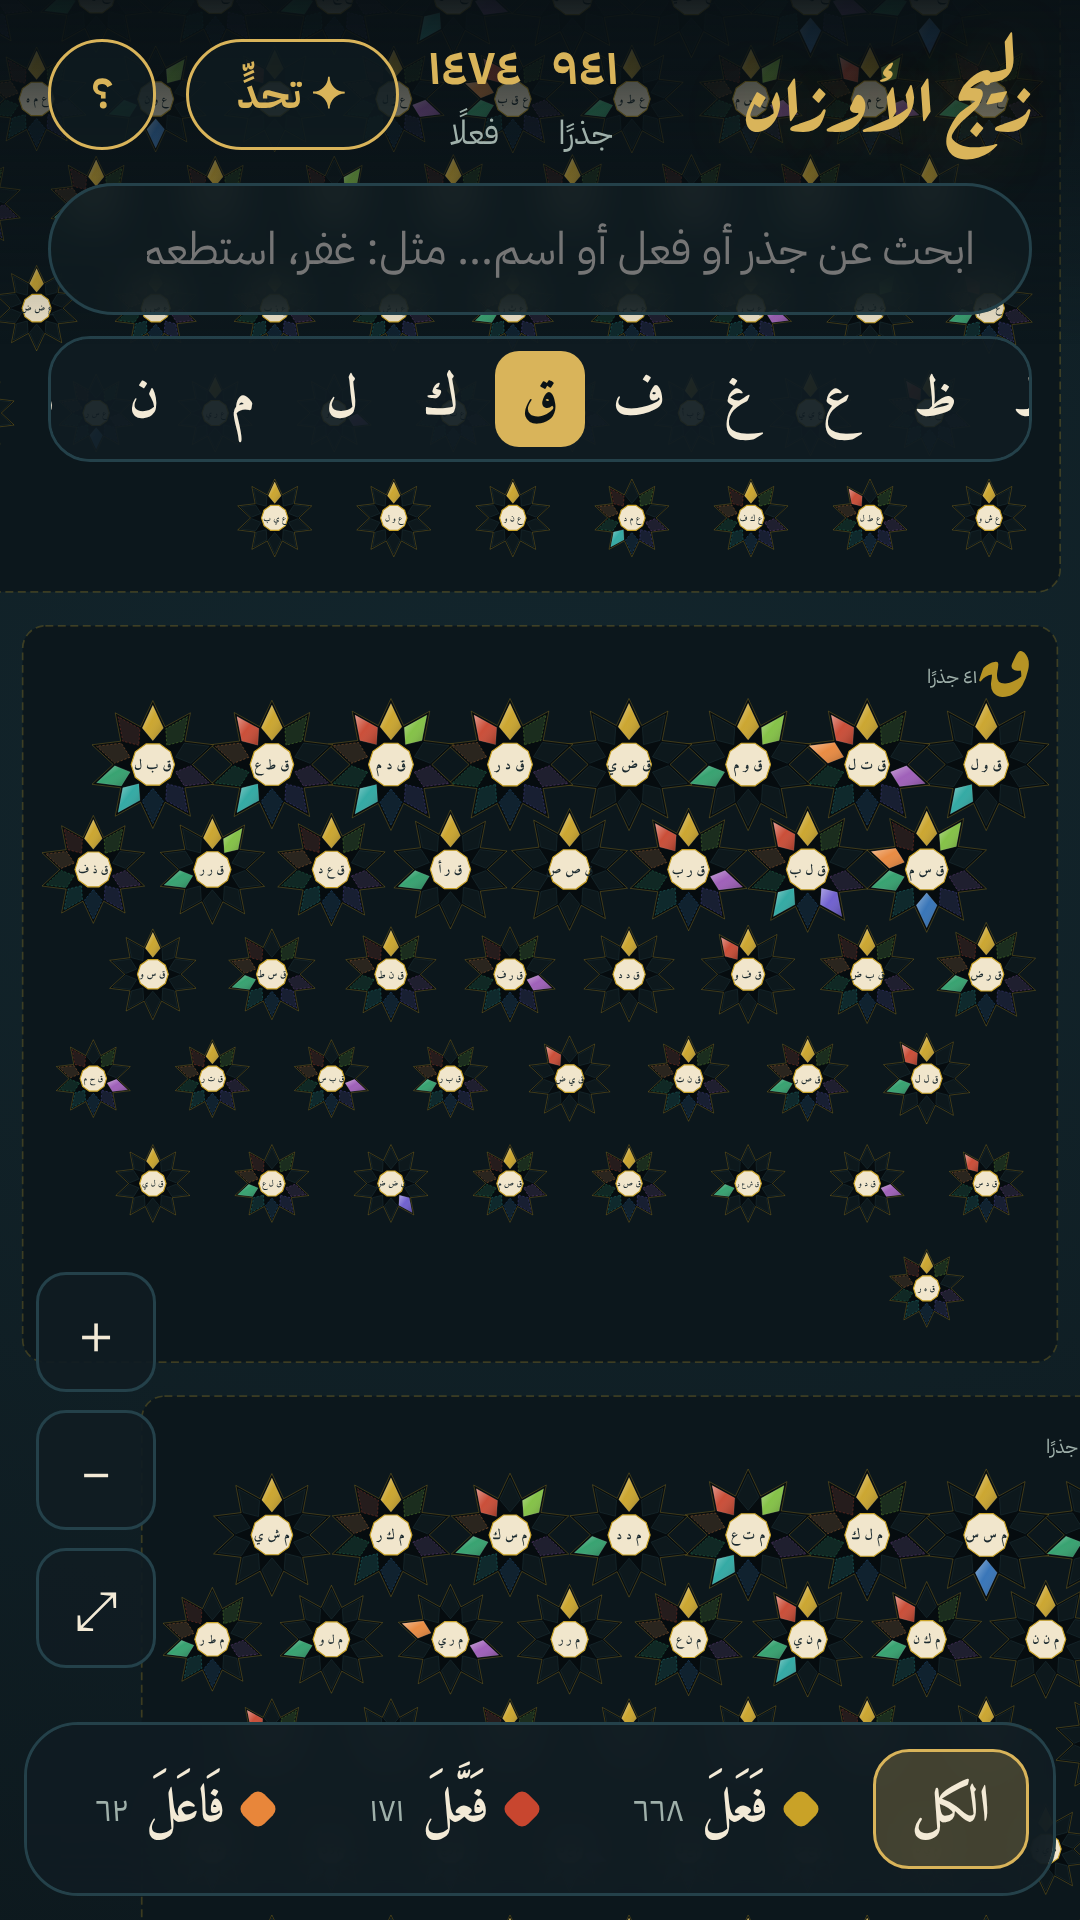
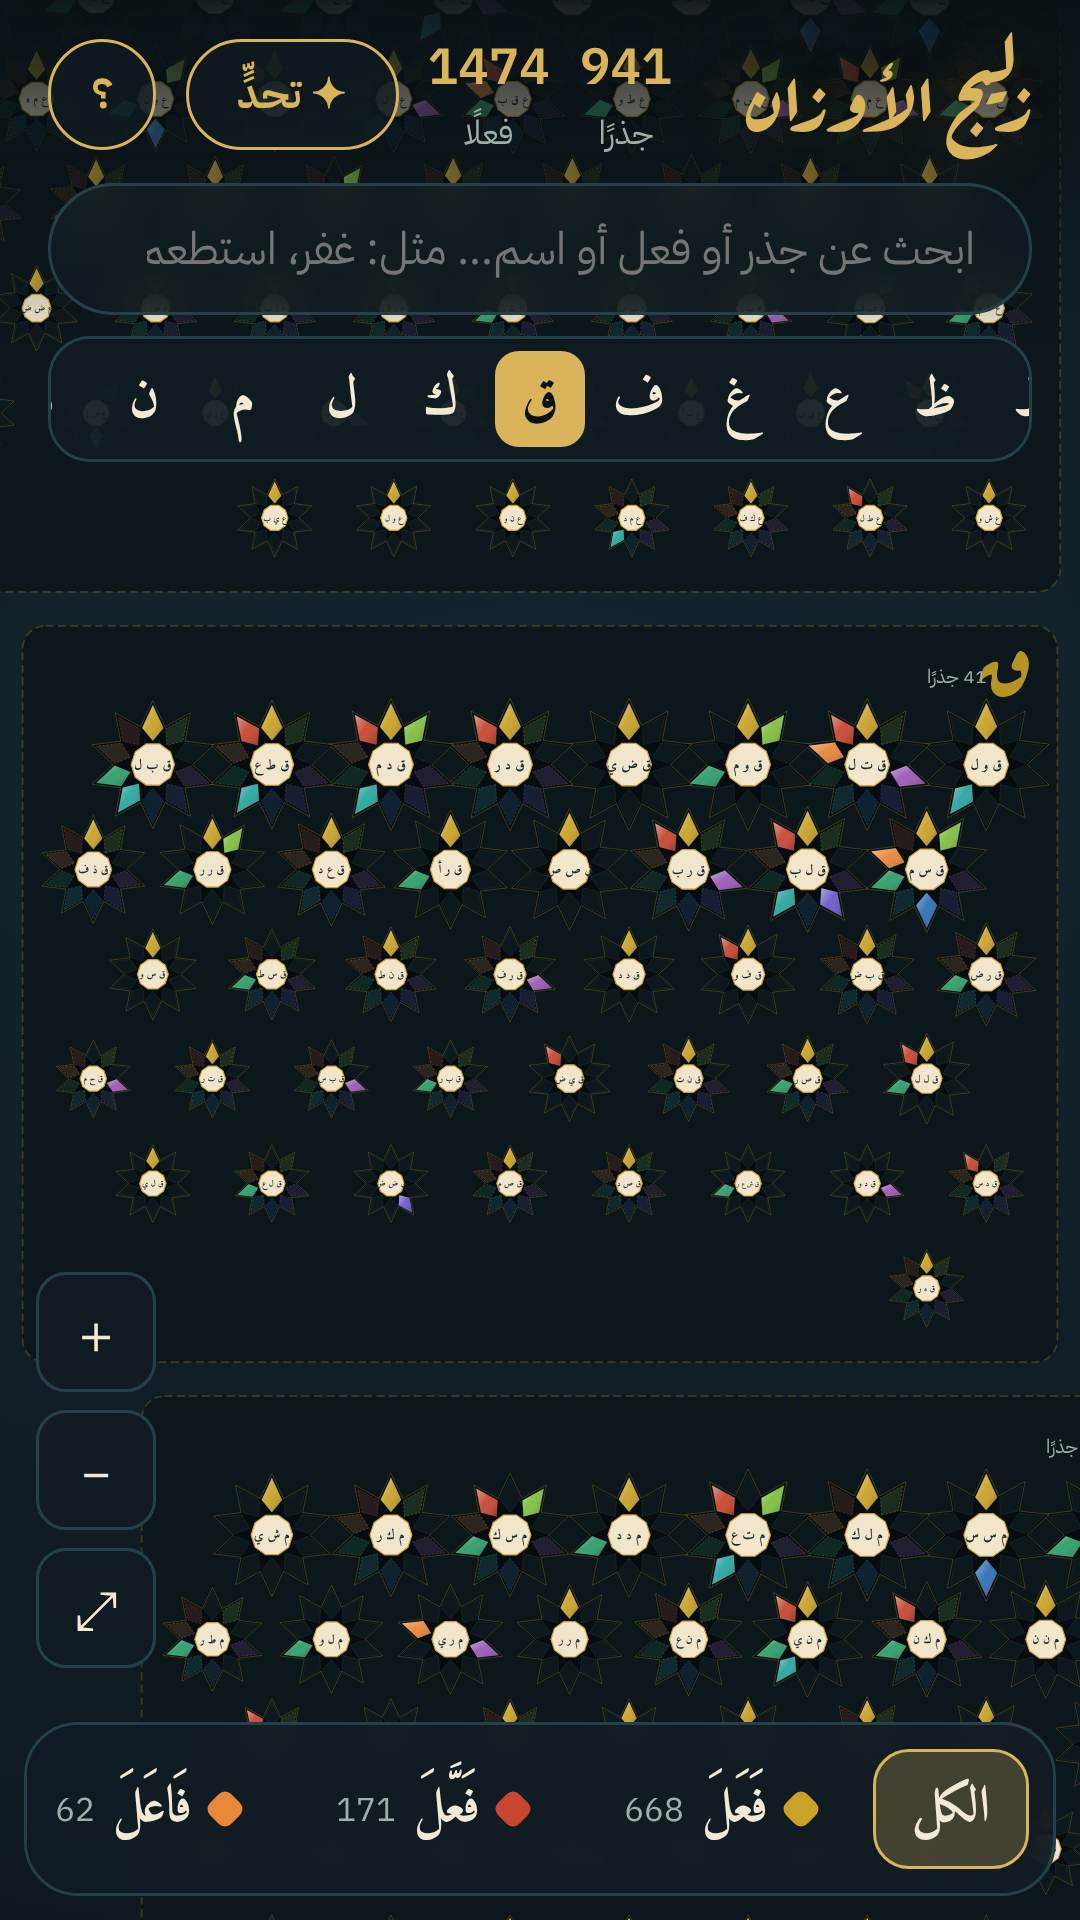
Use Western digits (0123) instead of Arabic-Indic digits across the site, app and store texts
Claude-Session: https://claude.ai/code/session_01CstUCS29t9ue1aXocyMgPm

diff --git a/privacy.html b/privacy.html
@@ -17,7 +17,7 @@
 </head>
 <body><main>
   <h1>سياسة الخصوصية</h1>
-  <small>تطبيق «زليج الأوزان» (com.mainlyb.awzan) — آخر تحديث: ٢٢ نوفمبر ٢٠٢٦</small>
+  <small>تطبيق «زليج الأوزان» (com.mainlyb.awzan) — آخر تحديث: 22 نوفمبر 2026</small>
   <h2>لا نجمع أيّ بيانات</h2>
   <p>يعمل التطبيق كاملًا على جهازك ودون اتصال بالإنترنت. لا يطلب حسابًا، ولا يجمع أيّ بيانات شخصية أو بيانات استخدام، ولا يتضمّن إعلانات ولا أدوات تتبّع أو تحليل، ولا يشارك أيّ معلومة مع أيّ طرف.</p>
   <p>محتوى التطبيق (الجذور والأفعال ونصّ الآيات والمعاجم) مضمَّن فيه. يستعمل التطبيق خادمًا داخليًا على الجهاز نفسه (127.0.0.1) لعرض هذا المحتوى، ولا يتصل بأيّ خادم خارجي. الروابط إلى مواقع المصادر تُفتح في متصفحك فقط إذا نقرت عليها.</p>

diff --git a/index.html b/index.html
@@ -22,9 +22,9 @@
     <div id="results" class="results hidden"></div>
   </div>
   <div class="stats">
-    <div><b id="sRoots">٠</b><span>جذرًا</span></div>
-    <div><b id="sVerbs">٠</b><span>فعلًا</span></div>
-    <div><b id="sTokens">٠</b><span>موضعًا</span></div>
+    <div><b id="sRoots">0</b><span>جذرًا</span></div>
+    <div><b id="sVerbs">0</b><span>فعلًا</span></div>
+    <div><b id="sTokens">0</b><span>موضعًا</span></div>
     <button id="quizBtn" class="pill">✦ تحدٍّ</button>
     <button id="aboutBtn" class="pill round" aria-label="عن الموقع">؟</button>
   </div>
@@ -53,7 +53,7 @@
 <div id="quiz" class="quiz hidden">
   <div class="quiz-box">
     <button class="x" aria-label="إغلاق">✕</button>
-    <div class="quiz-head"><span>النقاط <b id="qScore">٠</b> / <b id="qTotal">٠</b></span><span>🔥 <b id="qStreak">٠</b></span></div>
+    <div class="quiz-head"><span>النقاط <b id="qScore">0</b> / <b id="qTotal">0</b></span><span>🔥 <b id="qStreak">0</b></span></div>
     <div id="quizCard"></div>
   </div>
 </div>

diff --git a/js/morph.js b/js/morph.js
@@ -102,7 +102,7 @@ async function verseHTML(loc) {
   const [s, a, w] = loc.split(':').map(Number);
   const q = await loadSura(s);
   const words = q.v[a - 1].map((t, i) => i === w - 1 ? `<mark>${t}</mark>` : t).join(' ');
-  return `<div class="ayah">${words} <span class="an">﴿${String(a).replace(/\d/g, d => '٠١٢٣٤٥٦٧٨٩'[d])}﴾</span><span class="ref">${SURAS[s]} · ${a}</span></div>`;
+  return `<div class="ayah">${words} <span class="an">﴿${a}﴾</span><span class="ref">${SURAS[s]} · ${a}</span></div>`;
 }
 // المرجع المختار في الشرح ← موضع في المدوّنة
 function curatedLoc(cur, verb) {

diff --git a/js/app.js b/js/app.js
@@ -1,6 +1,6 @@
 (async () => {
 const $ = s => document.querySelector(s);
-const AR = n => String(n).replace(/\d/g, d => '٠١٢٣٤٥٦٧٨٩'[d]);
+const AR = n => String(n);   // chiffres 0123…
 const deg = Math.PI / 180;
 const P = (r, t) => [r * Math.cos(t * deg), r * Math.sin(t * deg)];
 const pts = arr => arr.map(p => p.map(n => n.toFixed(1)).join(',')).join(' ');

diff --git a/README.md b/README.md
@@ -4,7 +4,7 @@
 
 🔗 **الموقع:** <https://hsnsalhi.github.io/awzan/>
 
-- **الجدار**: ٩٤١ جذرًا ورد منها فعل في القرآن، في ألواح بحسب الحرف الأول. كل جذر نجمة عشرية، وكل بتلة وزن من الأوزان العشرة: الملوّنة وردت في القرآن، والمنقّطة صيغة قياسية لم ترد، والمعتمة لا تُصاغ. حجم النجمة بعدد مواضع أفعالها.
+- **الجدار**: 941 جذرًا ورد منها فعل في القرآن، في ألواح بحسب الحرف الأول. كل جذر نجمة عشرية، وكل بتلة وزن من الأوزان العشرة: الملوّنة وردت في القرآن، والمنقّطة صيغة قياسية لم ترد، والمعتمة لا تُصاغ. حجم النجمة بعدد مواضع أفعالها.
 - **مرشّح الأوزان** (أسفل الشاشة): اختر وزنًا لترى انتشاره في الجذور، ومعانيه وقوالبه، وكل أفعاله ومشتقاته في القرآن.
 - **النجمة المفتوحة**: الفعل في كل وزن، تشريحه (زائد / أصلي)، صيغه الواردة وآياته كلها (نصّ تنزيل)، المشتقات (المضارع، المصدر، اسم الفاعل، اسم المفعول) مع ما ورد منها، ومادّة الجذر في مقاييس اللغة والمفردات.
 - **تحدٍّ**: استنتج الوزن أو المعنى أو قالب الاسم من آية.
